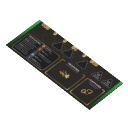
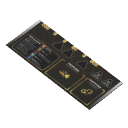
reset to 1/128 gutters (got clobbered back to 1%)

Changed region(s): [[0.6875, 0.625, 0.9688, 0.8438], [0.0625, 0.1562, 0.3438, 0.375]]

diff --git a/tooling/generators/lib/split-image.ts b/tooling/generators/lib/split-image.ts
@@ -165,8 +165,8 @@ export class SplitImage {
                 // roughly 1% but more pow-2 friendly.  That means
                 // grow by 1/126, and UVs inset 1/128.
                 if (this._bleedPreserveInternal98Percent) {
-                    const dX = Math.max(Math.round(chunkWidth * 0.007936), 1);
-                    const dY = Math.max(Math.round(chunkHeight * 0.007936), 1);
+                    const dX = Math.max(Math.floor(chunkWidth * 0.007936), 1);
+                    const dY = Math.max(Math.floor(chunkHeight * 0.007936), 1);
                     const extWidth = chunkWidth + dX * 2;
                     const extHeight = chunkHeight + dY * 2;
                     const chunkBuf = await chunkImg.toBuffer();

diff --git a/tooling/generators/create-board.ts b/tooling/generators/create-board.ts
@@ -69,11 +69,11 @@ v 0.5 -0.5 -0.5
 v -0.5 -0.5 -0.5
 v -0.5 -0.5 0.5
 
-# Use 1% bleed gutters
-vt 0.01 0.01
-vt 0.99 0,01
-vt 0.99 0.99
-vt 0.01 0.99
+# Use 1/128 bleed gutters
+vt 0.0078125 0.0078125
+vt 0.9921875 0.0078125
+vt 0.9921875 0.9921875
+vt 0.0078125 0.9921875
 
 vn 0 1 0
 vn 1 0 0
